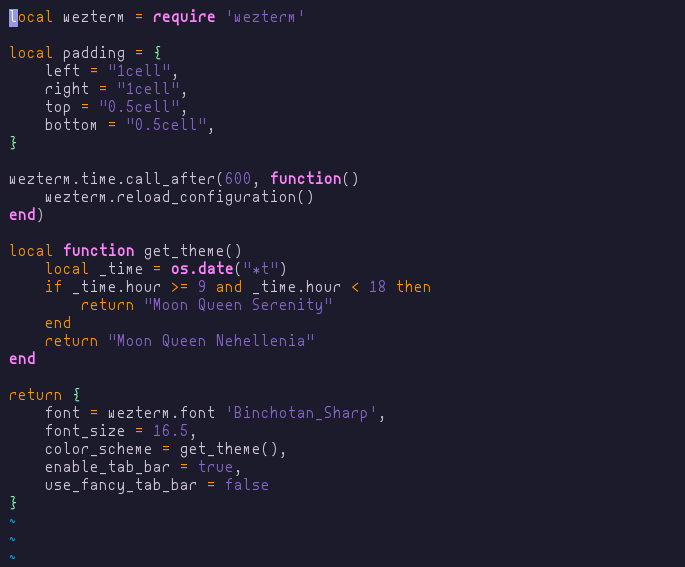
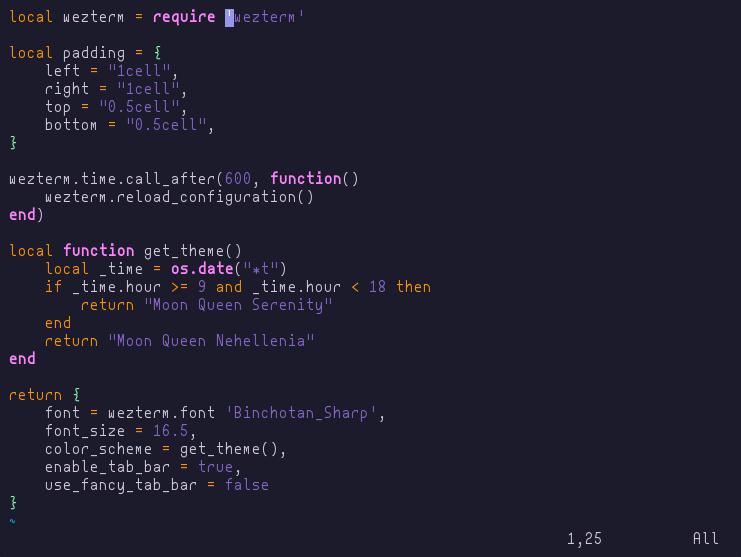
better asset crops

diff --git a/README.md b/README.md
@@ -80,6 +80,8 @@ end
 ## Screenshots
 
 <div align="center">
-<img src="assets/vim-serenity.png" alt="vim serenity sass" width="500px"> <br>
-<img src="assets/spot-nehellenia.png" alt="vim nehellenia spotify-tui" width="500px">
+<img src="assets/vim-serenity.png" alt="vim serenity html" width="700px">
+<img src="assets/spot-nehellenia.png" alt="nehellenia spotify-tui" width="700px"><br>
+<img src="assets/vim-nehellenia.png" alt="vim nehellenia lua" width="700px">
+<img src="assets/spot-serenity.png" alt="serenity spotify-tui" width="700px">
 </div>
